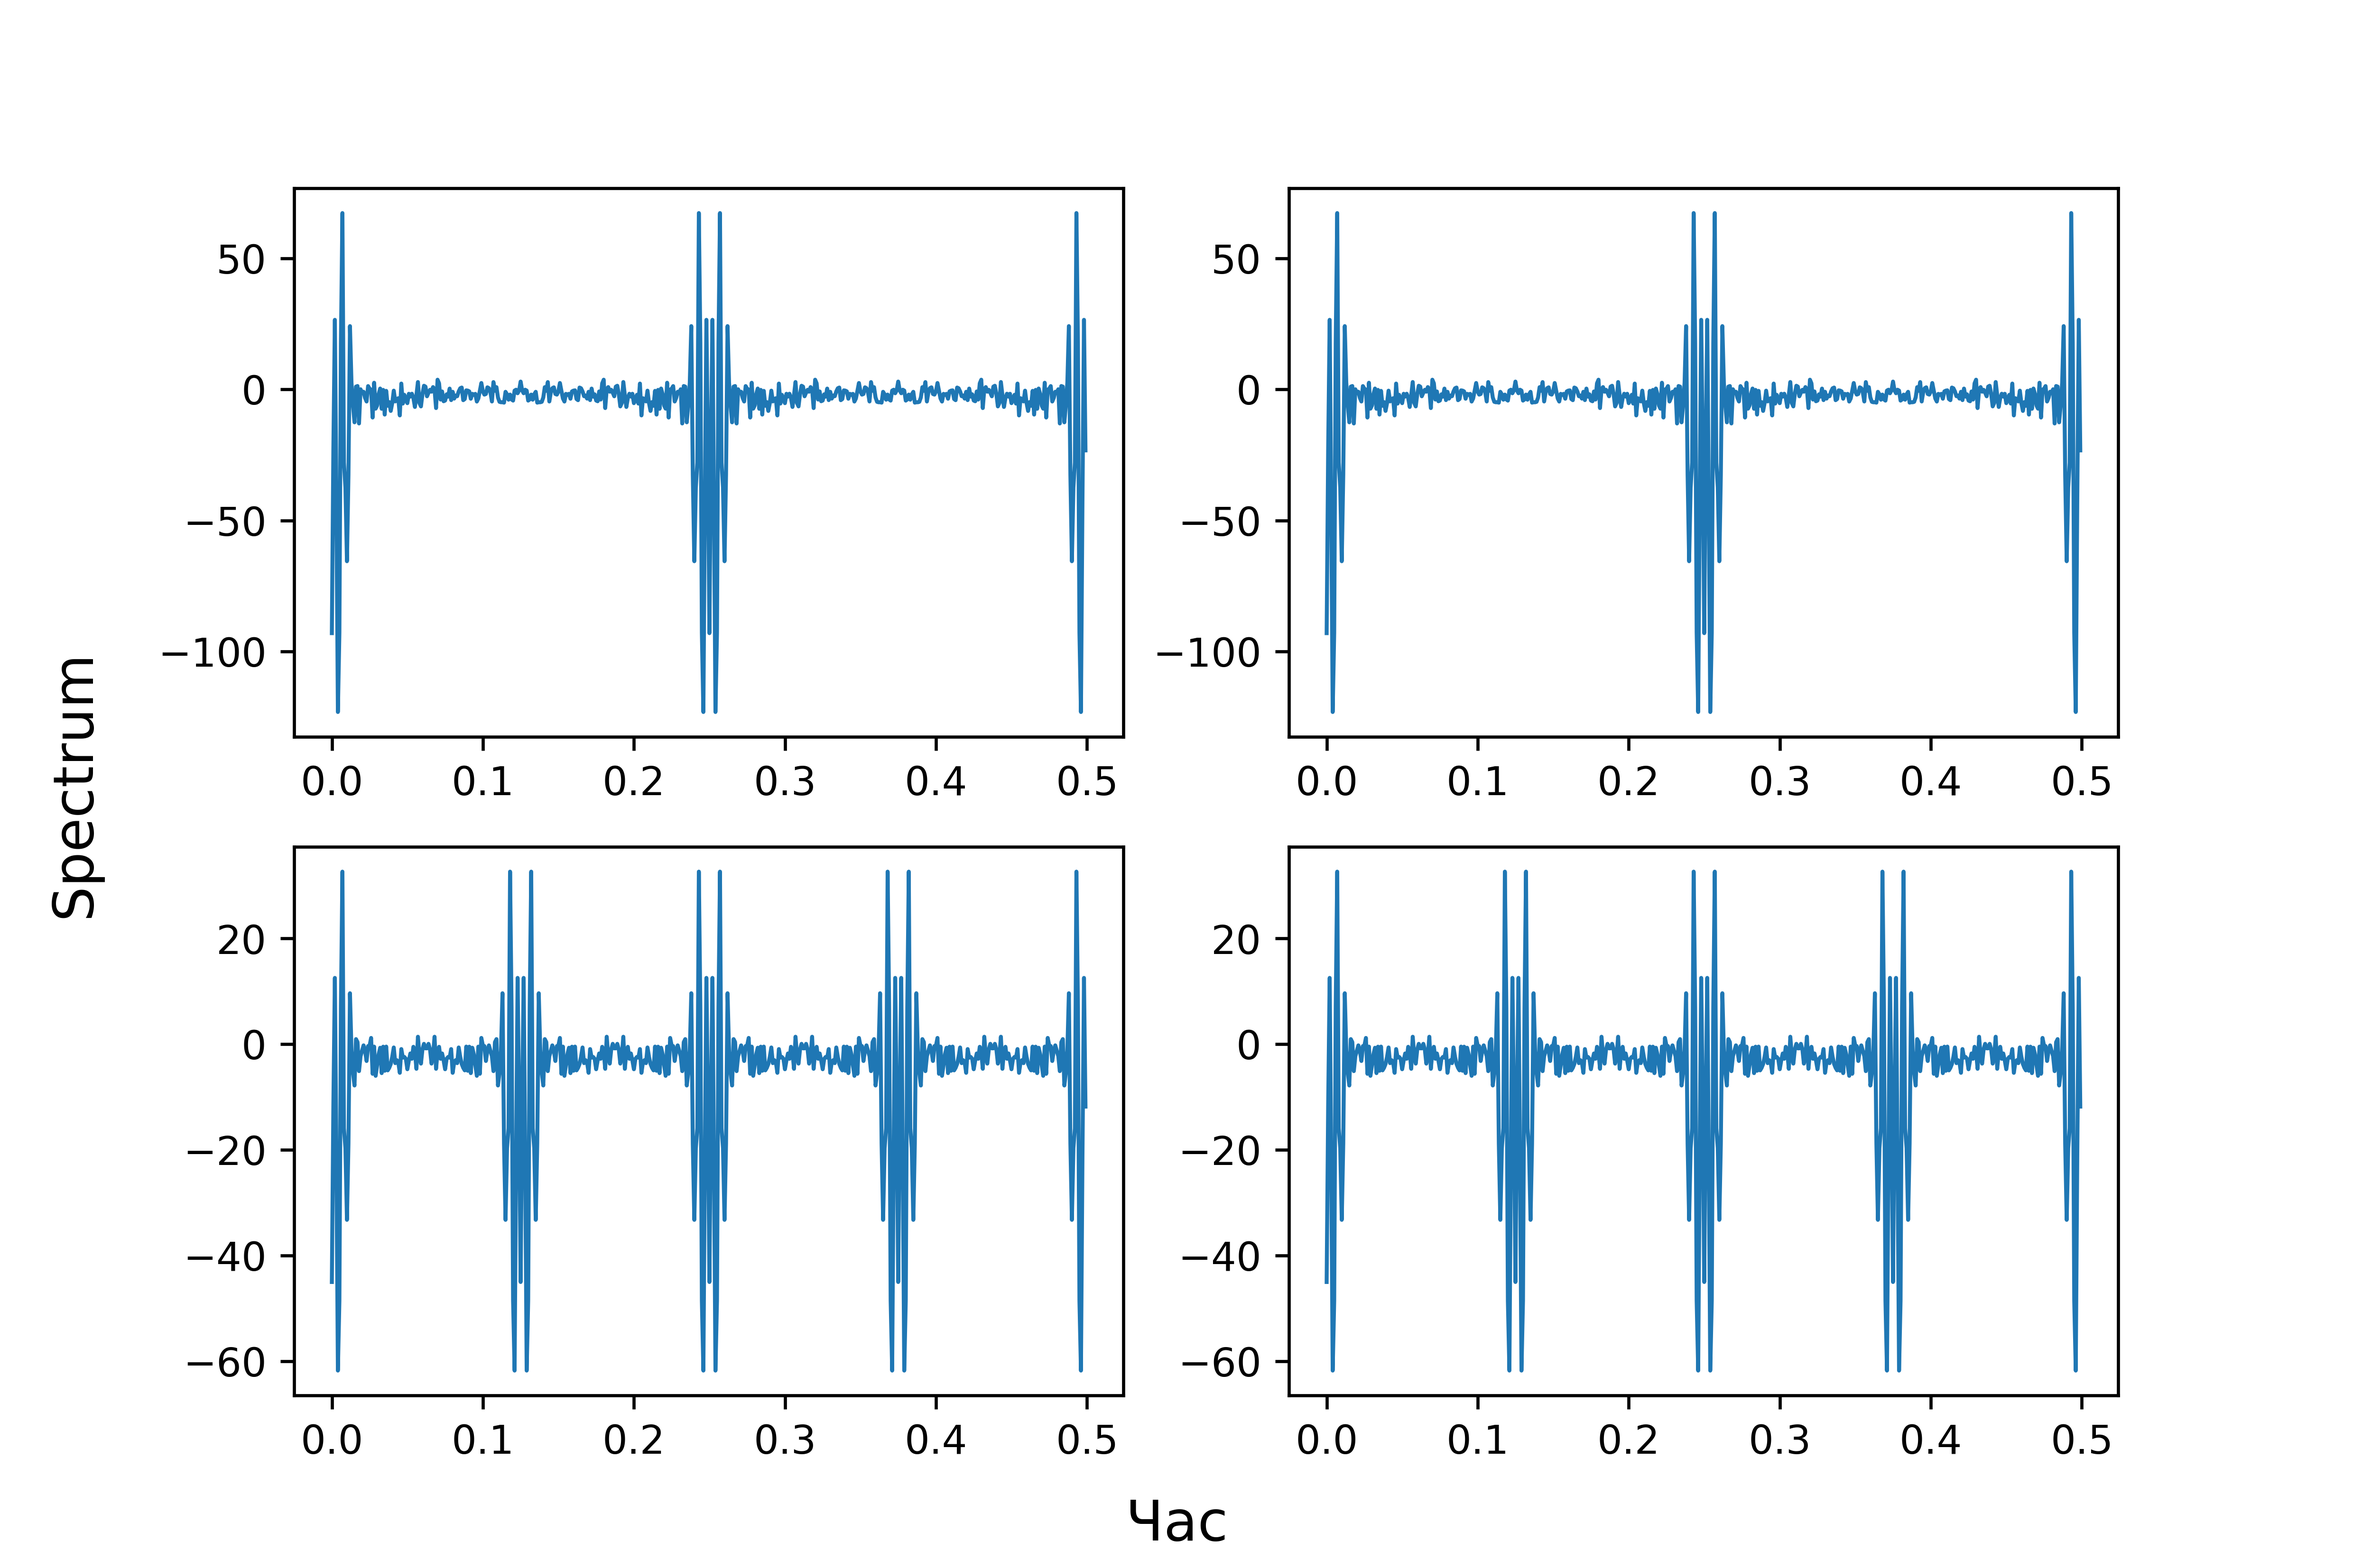
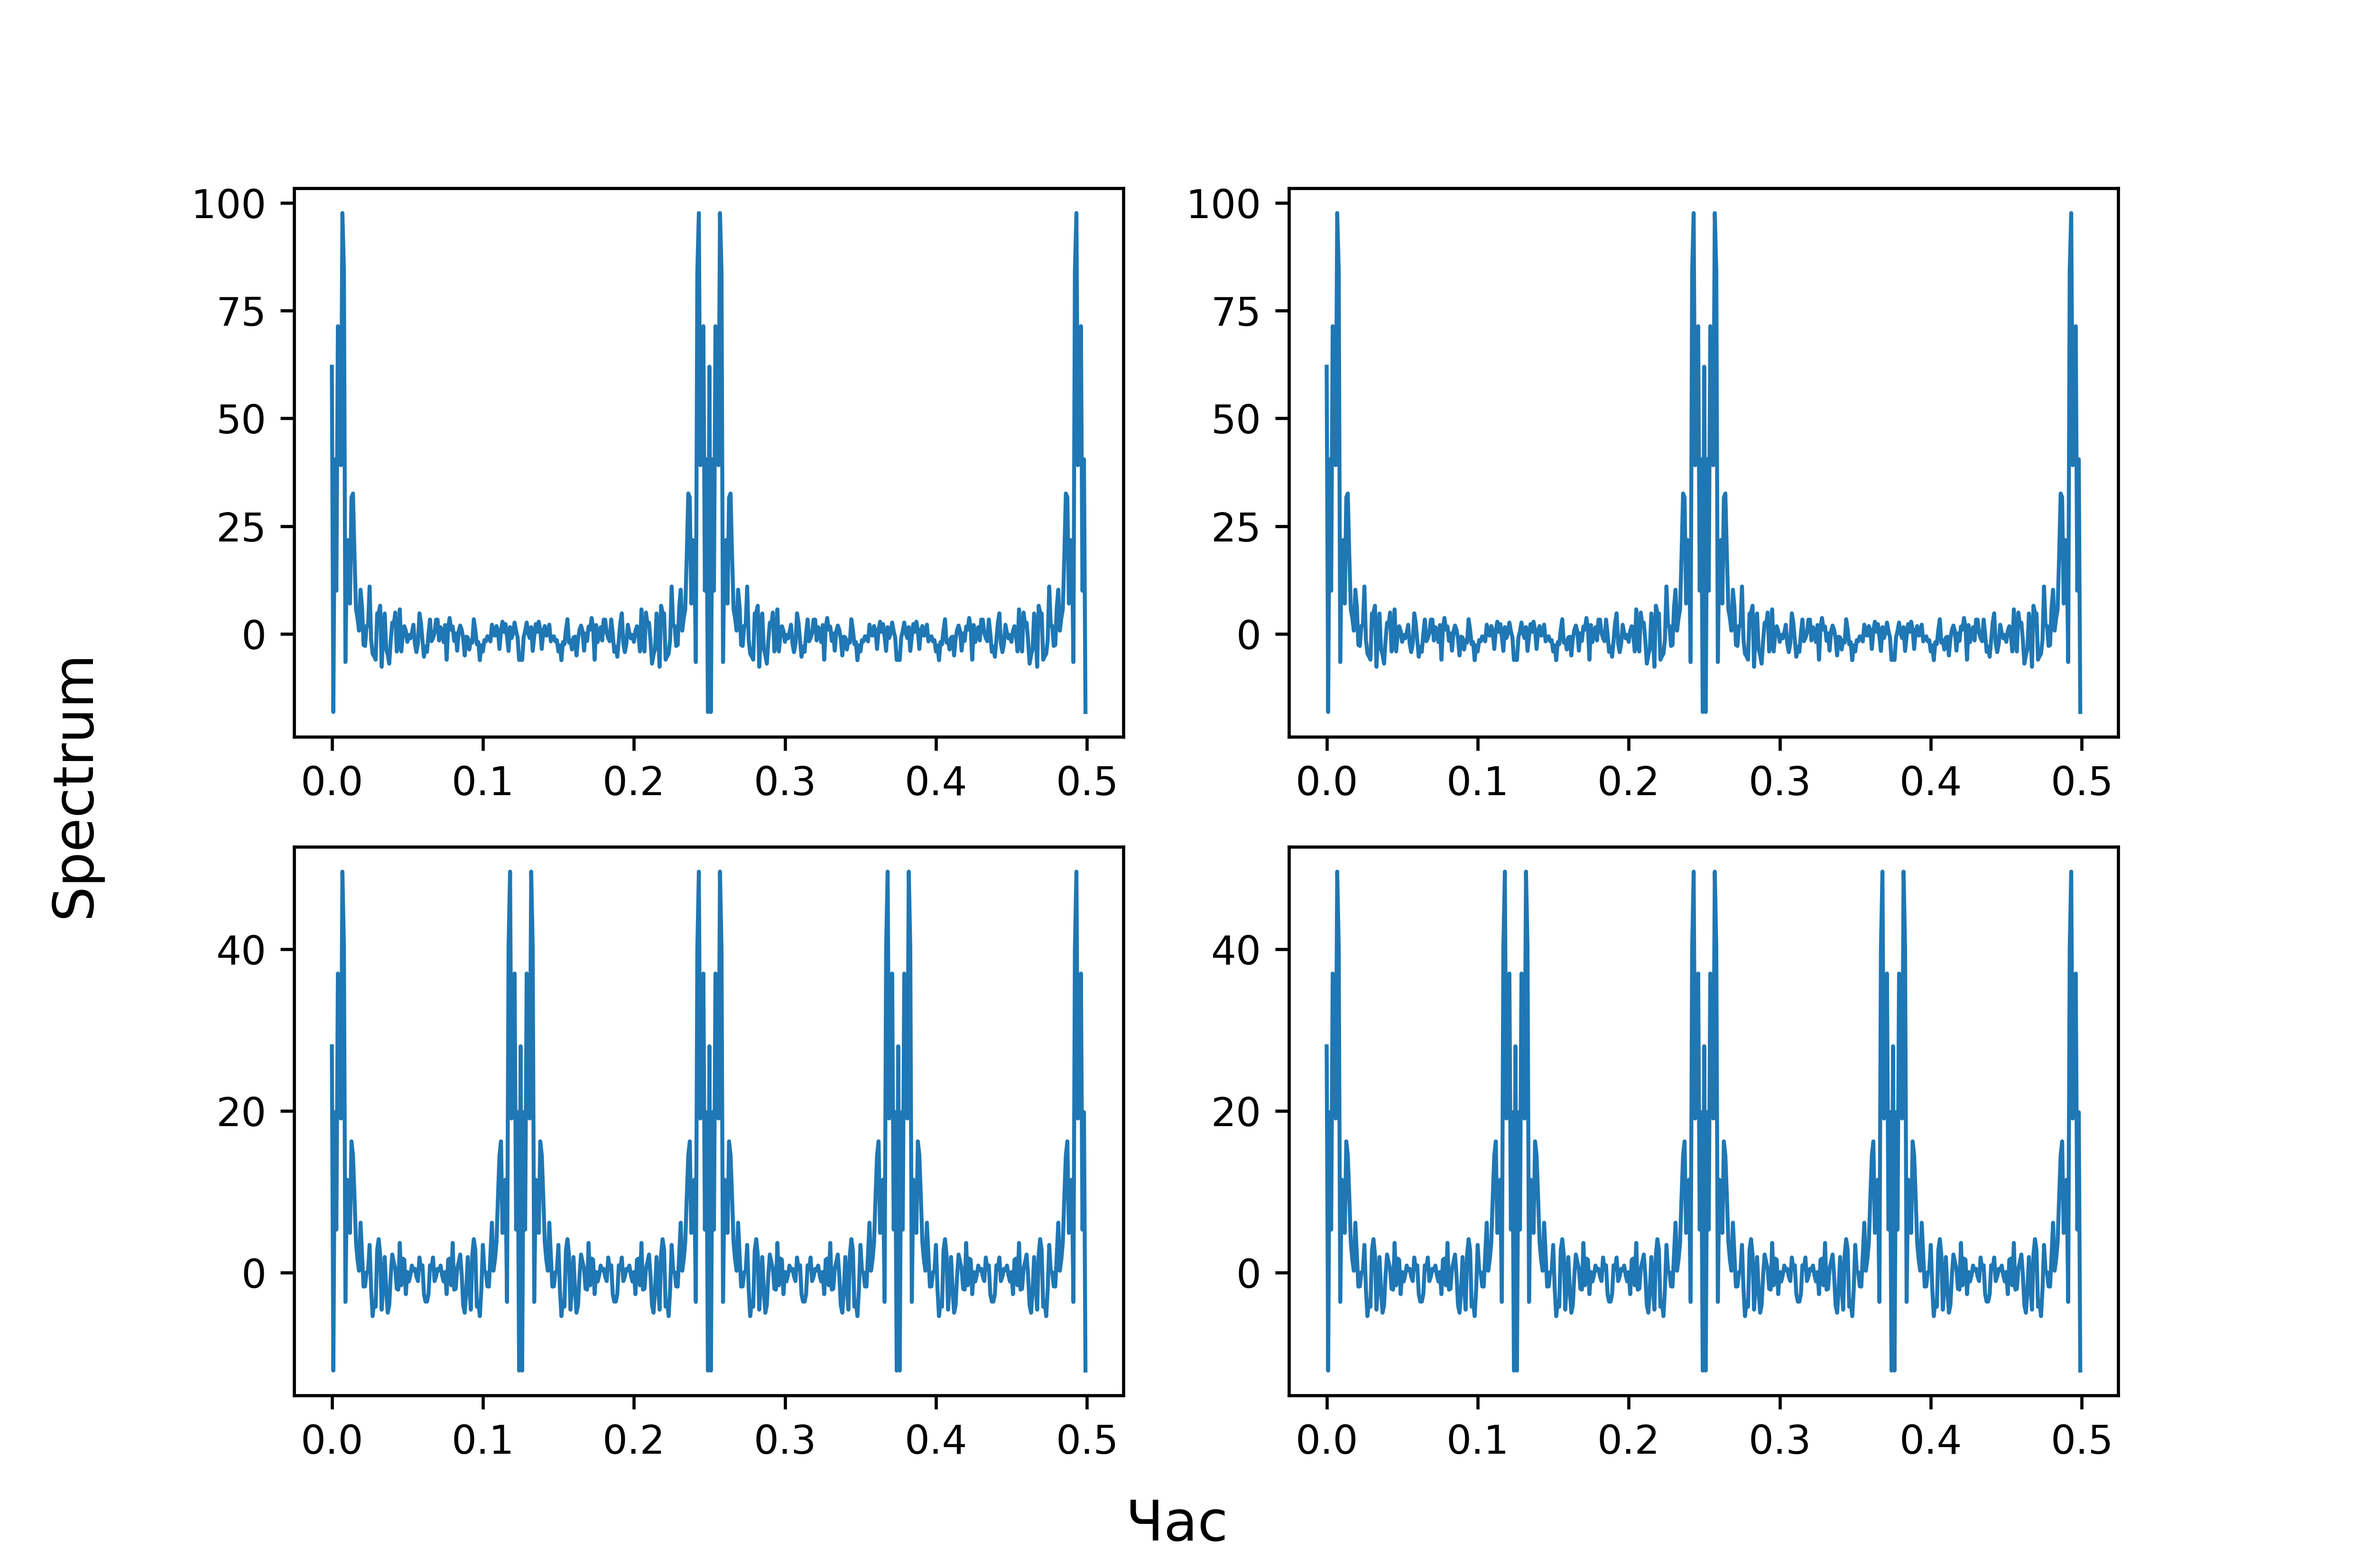
Signal processing, 3

diff --git a/SignalProcessing/SignalProcessing.py b/SignalProcessing/SignalProcessing.py
@@ -154,6 +154,7 @@ for M in [4, 16, 64, 256]:
 
     delta = (numpy.max(filtered_signal) - numpy.min(filtered_signal)) / (M - 1)
     quantize_signal = delta * np.round(filtered_signal / delta)
+    kv_sign += [list(quantize_signal)]
     quantize_levels = numpy.arange(numpy.min(quantize_signal), numpy.max(quantize_signal) + 1, delta)
 
     quantize_bit = numpy.arange(0, M)
@@ -186,4 +187,43 @@ for M in [4, 16, 64, 256]:
     ax.step(numpy.arange(0, len(bits)), bits, linewidth=0.1)
     fig.savefig("figures\гистограмма_м=" + str(M) + ".png", dpi=600)
 
+    dispersion = numpy.var(quantize_signal - filtered_signal)
+    print("dispersion " + str(dispersion))
+    disp += [dispersion]
+    sign_noise = numpy.var(filtered_signal) / dispersion
+    sing_noice2 += [sign_noise]
 
+
+fig, ax = plt.subplots(1, 1, figsize=(21 / 2.54, 14 / 2.54))
+
+x = [4, 16, 64, 256]
+y = disp
+
+ax.plot(x, y, linewidth=1)
+
+fig.supxlabel("квантування", fontsize=14)
+fig.supylabel("Дисперсия", fontsize=14)
+fig.savefig("figures\prac4_disp.png", dpi=600)
+
+fig, ax = plt.subplots(1, 1, figsize=(21 / 2.54, 14 / 2.54))
+
+y = pd.DataFrame(sing_noice2)
+
+ax.plot(x, y, linewidth=1)
+
+fig.supxlabel("Крок дискредитац", fontsize=14)
+fig.supylabel("Отношение сигнал шум", fontsize=14)
+fig.savefig("figures\prac4_quant.png", dpi=600)
+
+fig, ax = plt.subplots(2, 2, figsize=(21 / 2.54, 14 / 2.54))
+
+s = 0
+for i in range(0, 2):
+    for j in range(0, 2):
+        ax[i][j].plot(time_check, kv_sign[s], linewidth=1)
+
+    s += 1
+
+fig.supxlabel("Час", fontsize=14)
+fig.supylabel("kv_sign", fontsize=14)
+fig.savefig("figures\prac4_kv_sign.png", dpi=600)
